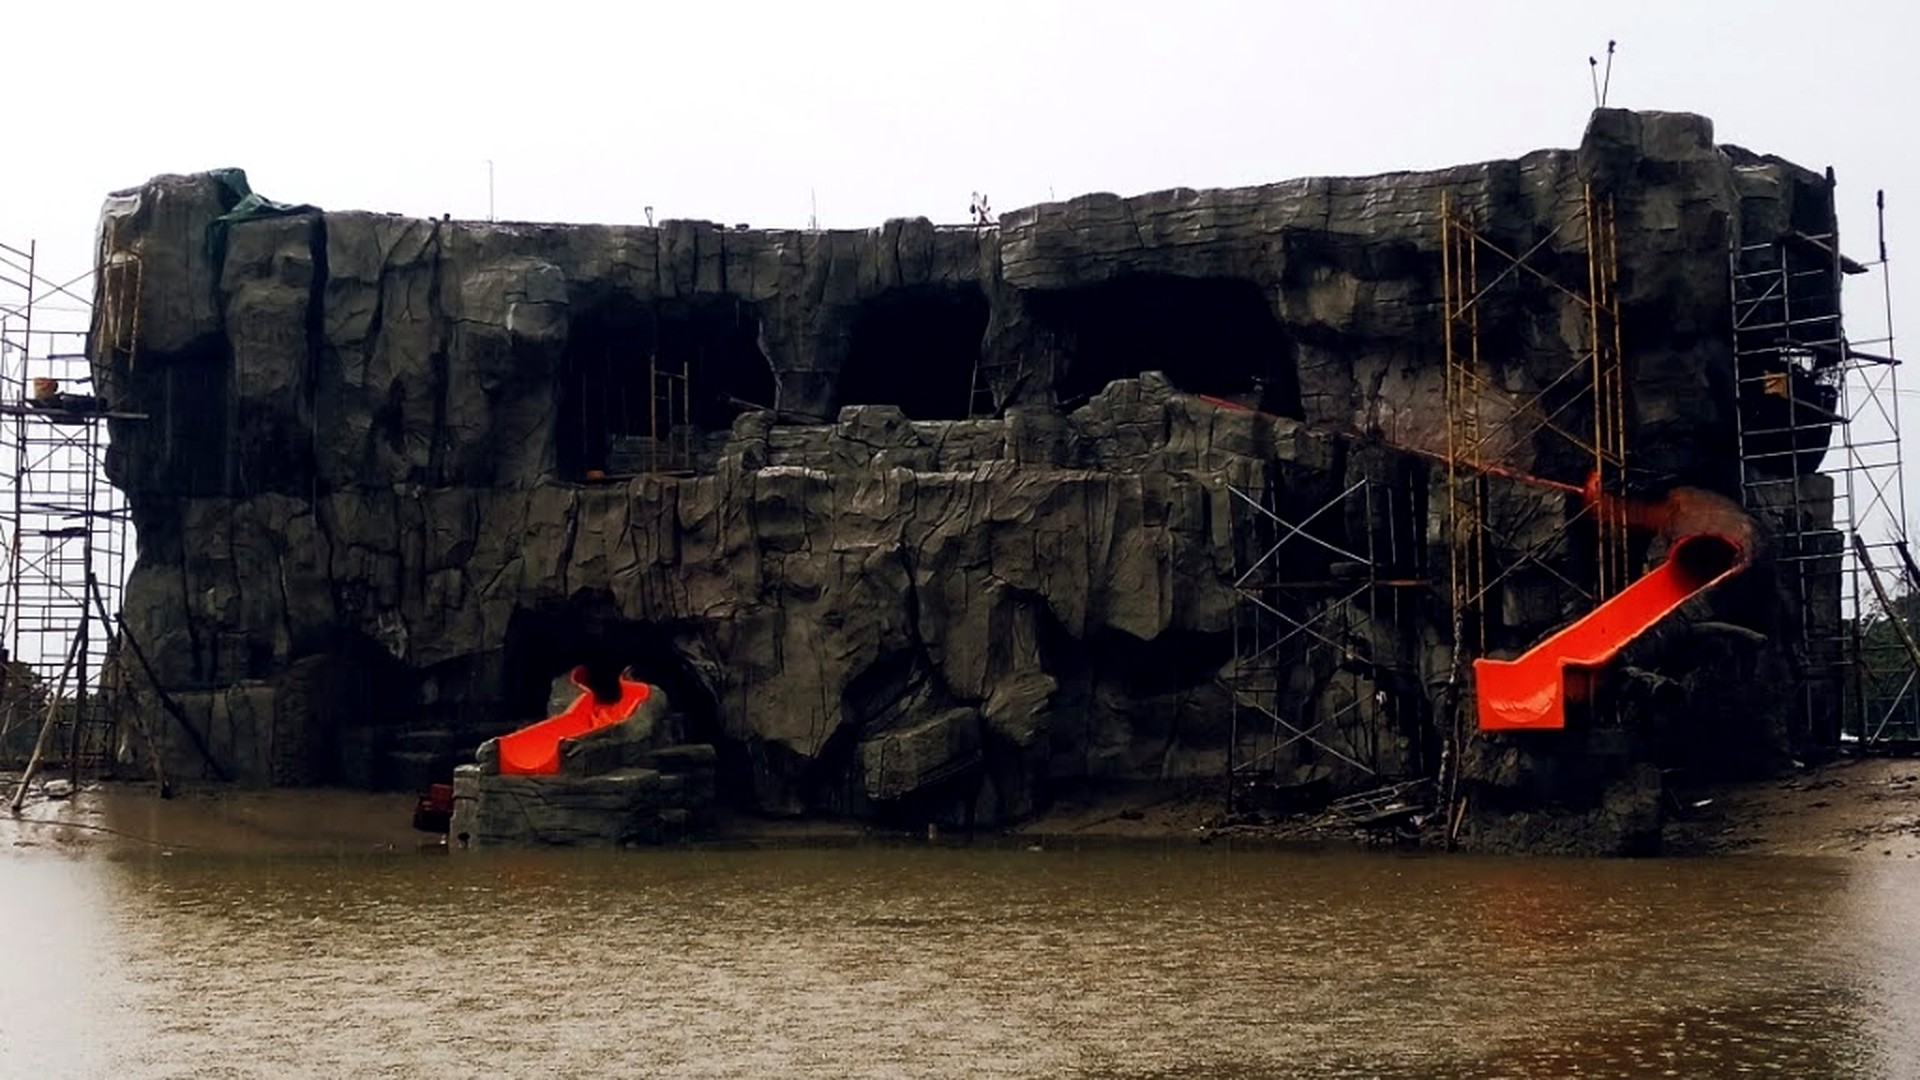
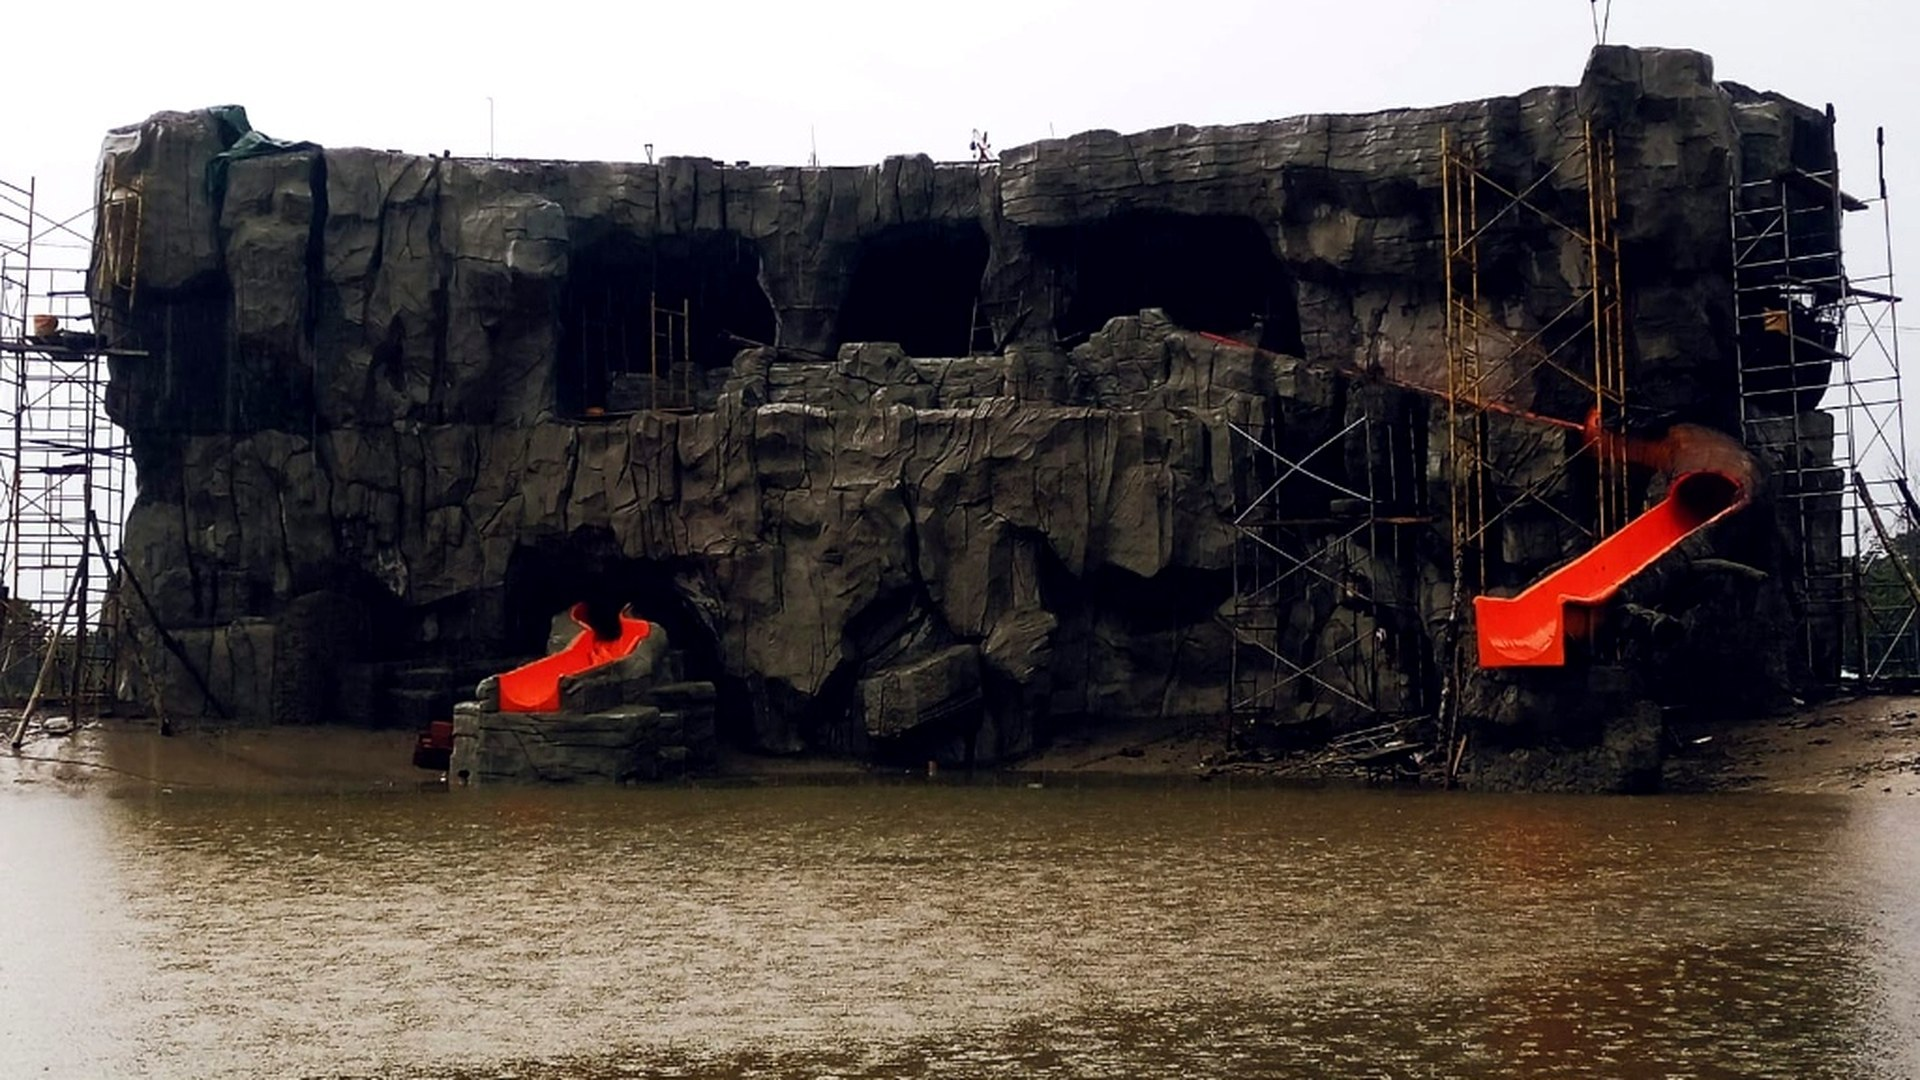
feat: carrusel automatico de fondo en Hero con 3 obras reales (cavernas, puente con cascadas, parque jurasico) sin marcas de agua

diff --git a/styles.css b/styles.css
@@ -482,23 +482,48 @@ button {
   padding: 140px 0 110px 0;
 }
 
+/* Hero Background Slider / Carrusel de Obras Reales */
+.hero-slider {
+  position: absolute;
+  top: 0;
+  left: 0;
+  width: 100%;
+  height: 100%;
+  overflow: hidden;
+  z-index: 1;
+}
+
+.hero-slide {
+  position: absolute;
+  top: 0;
+  left: 0;
+  width: 100%;
+  height: 100%;
+  background-size: cover;
+  background-position: center center;
+  opacity: 0;
+  visibility: hidden;
+  transform: scale(1);
+  transition: opacity 1.0s ease-in-out, transform 8s cubic-bezier(0.25, 1, 0.5, 1);
+  will-change: opacity, transform;
+}
+
+.hero-slide.active {
+  opacity: 1;
+  visibility: visible;
+  transform: scale(1.07);
+}
+
 .hero-bg-media {
   position: absolute;
   top: 0;
   left: 0;
   width: 100%;
   height: 100%;
-  background-image: url('assets/images/hero-bg.jpg');
+  background-image: url('assets/images/hero-slide-1.jpg');
   background-size: cover;
   background-position: center center;
-  animation: slowZoom 25s alternate infinite ease-in-out;
-  transform-origin: center center;
   z-index: 1;
-}
-
-@keyframes slowZoom {
-  0% { transform: scale(1); }
-  100% { transform: scale(1.08); }
 }
 
 .hero-bg-overlay {
@@ -507,7 +532,7 @@ button {
   left: 0;
   width: 100%;
   height: 100%;
-  background: radial-gradient(circle at 30% 50%, rgba(7, 13, 8, 0.35) 0%, rgba(7, 13, 8, 0.75) 55%, rgba(7, 13, 8, 0.96) 100%);
+  background: radial-gradient(circle at 25% 45%, rgba(6, 12, 7, 0.3) 0%, rgba(6, 12, 7, 0.55) 55%, rgba(6, 12, 7, 0.78) 100%);
   z-index: 2;
 }
 
@@ -517,7 +542,7 @@ button {
   left: 0;
   width: 100%;
   height: 100%;
-  box-shadow: inset 0 0 130px rgba(0, 0, 0, 0.85);
+  box-shadow: inset 0 0 90px rgba(0, 0, 0, 0.55);
   z-index: 3;
   pointer-events: none;
 }
@@ -714,6 +739,119 @@ button {
   height: 45px;
   background: linear-gradient(to top, #09120a, transparent);
   z-index: 6;
+}
+
+/* Controles elegantes del carrusel de obras */
+.hero-carousel-controls {
+  display: inline-flex;
+  align-items: center;
+  gap: 12px;
+  background: rgba(10, 18, 12, 0.8);
+  backdrop-filter: blur(16px);
+  -webkit-backdrop-filter: blur(16px);
+  padding: 8px 18px;
+  border-radius: 50px;
+  border: 1px solid rgba(82, 196, 26, 0.35);
+  box-shadow: 0 10px 30px rgba(0, 0, 0, 0.65), 0 0 20px rgba(82, 196, 26, 0.15);
+  margin-top: 25px;
+  position: relative;
+  z-index: 10;
+}
+
+.hero-carousel-arrow {
+  background: transparent;
+  border: none;
+  color: rgba(255, 255, 255, 0.7);
+  font-size: 0.85rem;
+  width: 32px;
+  height: 32px;
+  display: flex;
+  align-items: center;
+  justify-content: center;
+  border-radius: 50%;
+  cursor: pointer;
+  transition: all 0.3s ease;
+}
+
+.hero-carousel-arrow:hover {
+  color: #52c41a;
+  background: rgba(82, 196, 26, 0.2);
+  transform: scale(1.12);
+}
+
+.hero-carousel-dots {
+  display: flex;
+  align-items: center;
+  gap: 8px;
+}
+
+.hero-dot {
+  background: transparent;
+  border: none;
+  cursor: pointer;
+  display: flex;
+  align-items: center;
+  gap: 8px;
+  padding: 6px 14px;
+  border-radius: 50px;
+  transition: all 0.35s ease;
+}
+
+.hero-dot:hover {
+  background: rgba(255, 255, 255, 0.08);
+}
+
+.hero-dot .dot-indicator {
+  width: 9px;
+  height: 9px;
+  border-radius: 50%;
+  background: rgba(255, 255, 255, 0.35);
+  transition: all 0.35s cubic-bezier(0.4, 0, 0.2, 1);
+}
+
+.hero-dot .dot-label {
+  font-size: 0.78rem;
+  font-weight: 500;
+  letter-spacing: 0.03em;
+  color: rgba(255, 255, 255, 0.65);
+  white-space: nowrap;
+  transition: color 0.3s ease;
+}
+
+.hero-dot.active {
+  background: rgba(82, 196, 26, 0.18);
+  border: 1px solid rgba(82, 196, 26, 0.4);
+}
+
+.hero-dot.active .dot-indicator {
+  width: 22px;
+  border-radius: 6px;
+  background: #52c41a;
+  box-shadow: 0 0 12px rgba(82, 196, 26, 0.9);
+}
+
+.hero-dot.active .dot-label {
+  color: #ffffff;
+  font-weight: 700;
+}
+
+@media (max-width: 768px) {
+  .hero-carousel-controls {
+    margin-top: 20px;
+    padding: 6px 14px;
+    gap: 8px;
+    width: 100%;
+    justify-content: center;
+  }
+  .hero-dot .dot-label {
+    display: none;
+  }
+  .hero-dot {
+    padding: 6px 8px;
+  }
+  .hero-dot.active .dot-indicator {
+    width: 18px;
+  }
 }
 
 /* ==========================================================================

diff --git a/index.html b/index.html
@@ -49,7 +49,7 @@
   <!-- Font Awesome Icons -->
   <link rel="stylesheet" href="https://cdnjs.cloudflare.com/ajax/libs/font-awesome/6.5.1/css/all.min.css">
 
-  <link rel="stylesheet" href="styles.css">
+  <link rel="stylesheet" href="styles.css?v=2.6">
 
   <!-- Schema.org Datos Estructurados para Google (Muestra el Logo y Datos de la Empresa en Google Search) -->
   <script type="application/ld+json">
@@ -187,7 +187,12 @@
   <main>
     <!-- HERO SECTION WITH CINEMATIC ATMOSPHERE -->
     <section class="hero-section" id="inicio">
-      <div class="hero-bg-media"></div>
+      <!-- HERO BACKGROUND CAROUSEL (Obras Reales en Bolivia) -->
+      <div class="hero-slider" id="hero-slider" aria-hidden="true">
+        <div class="hero-slide active" style="background-image: url('assets/images/hero-slide-1.jpg');"></div>
+        <div class="hero-slide" style="background-image: url('assets/images/hero-slide-2.jpg');"></div>
+        <div class="hero-slide" style="background-image: url('assets/images/hero-slide-3.jpg');"></div>
+      </div>
       <div class="hero-bg-overlay"></div>
       <div class="hero-vignette"></div>
 
@@ -248,6 +253,30 @@
             <i class="fa-solid fa-map-location-dot"></i>
             <span>Obras en Toda Bolivia</span>
           </div>
+        </div>
+
+        <!-- Controles elegantes del carrusel de fondo -->
+        <div class="hero-carousel-controls" aria-label="Controles de fotografías de obras">
+          <button class="hero-carousel-arrow prev" id="hero-prev" aria-label="Obra anterior">
+            <i class="fa-solid fa-chevron-left"></i>
+          </button>
+          <div class="hero-carousel-dots" id="hero-dots">
+            <button class="hero-dot active" data-slide="0" aria-label="Ver Cavernas y Toboganes">
+              <span class="dot-indicator"></span>
+              <span class="dot-label">Cavernas & Toboganes</span>
+            </button>
+            <button class="hero-dot" data-slide="1" aria-label="Ver Puente y Cascadas">
+              <span class="dot-indicator"></span>
+              <span class="dot-label">Puente & Cascadas</span>
+            </button>
+            <button class="hero-dot" data-slide="2" aria-label="Ver Parque Temático">
+              <span class="dot-indicator"></span>
+              <span class="dot-label">Parque Temático</span>
+            </button>
+          </div>
+          <button class="hero-carousel-arrow next" id="hero-next" aria-label="Obra siguiente">
+            <i class="fa-solid fa-chevron-right"></i>
+          </button>
         </div>
       </div>
 
@@ -1097,6 +1126,6 @@
   </div>
 
   <!-- Main JavaScript Logic -->
-  <script src="app.js"></script>
+  <script src="app.js?v=2.5"></script>
 </body>
 </html>

diff --git a/app.js b/app.js
@@ -144,6 +144,76 @@ document.addEventListener('DOMContentLoaded', () => {
   }
 
   // =========================================================================
+  // 3.1. Hero Background Carousel (Transición Cinematográfica Automática)
+  // =========================================================================
+  const heroSlider = document.getElementById('hero-slider');
+  if (heroSlider) {
+    const slides = heroSlider.querySelectorAll('.hero-slide');
+    const dots = document.querySelectorAll('.hero-dot');
+    const prevBtn = document.getElementById('hero-prev');
+    const nextBtn = document.getElementById('hero-next');
+    let currentSlide = 0;
+    let slideTimer = null;
+    const SLIDE_DURATION = 5500; // 5.5 segundos por foto
+
+    const showSlide = (index) => {
+      slides.forEach((slide, i) => {
+        slide.classList.toggle('active', i === index);
+      });
+      dots.forEach((dot, i) => {
+        dot.classList.toggle('active', i === index);
+      });
+      currentSlide = index;
+    };
+
+    const nextSlide = () => {
+      const nextIndex = (currentSlide + 1) % slides.length;
+      showSlide(nextIndex);
+    };
+
+    const prevSlide = () => {
+      const prevIndex = (currentSlide - 1 + slides.length) % slides.length;
+      showSlide(prevIndex);
+    };
+
+    const startTimer = () => {
+      stopTimer();
+      slideTimer = setInterval(nextSlide, SLIDE_DURATION);
+    };
+
+    const stopTimer = () => {
+      if (slideTimer) clearInterval(slideTimer);
+    };
+
+    if (nextBtn) {
+      nextBtn.addEventListener('click', () => {
+        nextSlide();
+        startTimer();
+      });
+    }
+
+    if (prevBtn) {
+      prevBtn.addEventListener('click', () => {
+        prevSlide();
+        startTimer();
+      });
+    }
+
+    dots.forEach((dot) => {
+      dot.addEventListener('click', () => {
+        const target = parseInt(dot.getAttribute('data-slide'), 10);
+        if (!isNaN(target)) {
+          showSlide(target);
+          startTimer();
+        }
+      });
+    });
+
+    // Iniciar rotación automática de fondo
+    startTimer();
+  }
+
+  // =========================================================================
   // 4. Slider Interactivo Antes y Después
   // =========================================================================
   const baContainer = document.getElementById('before-after-slider');
